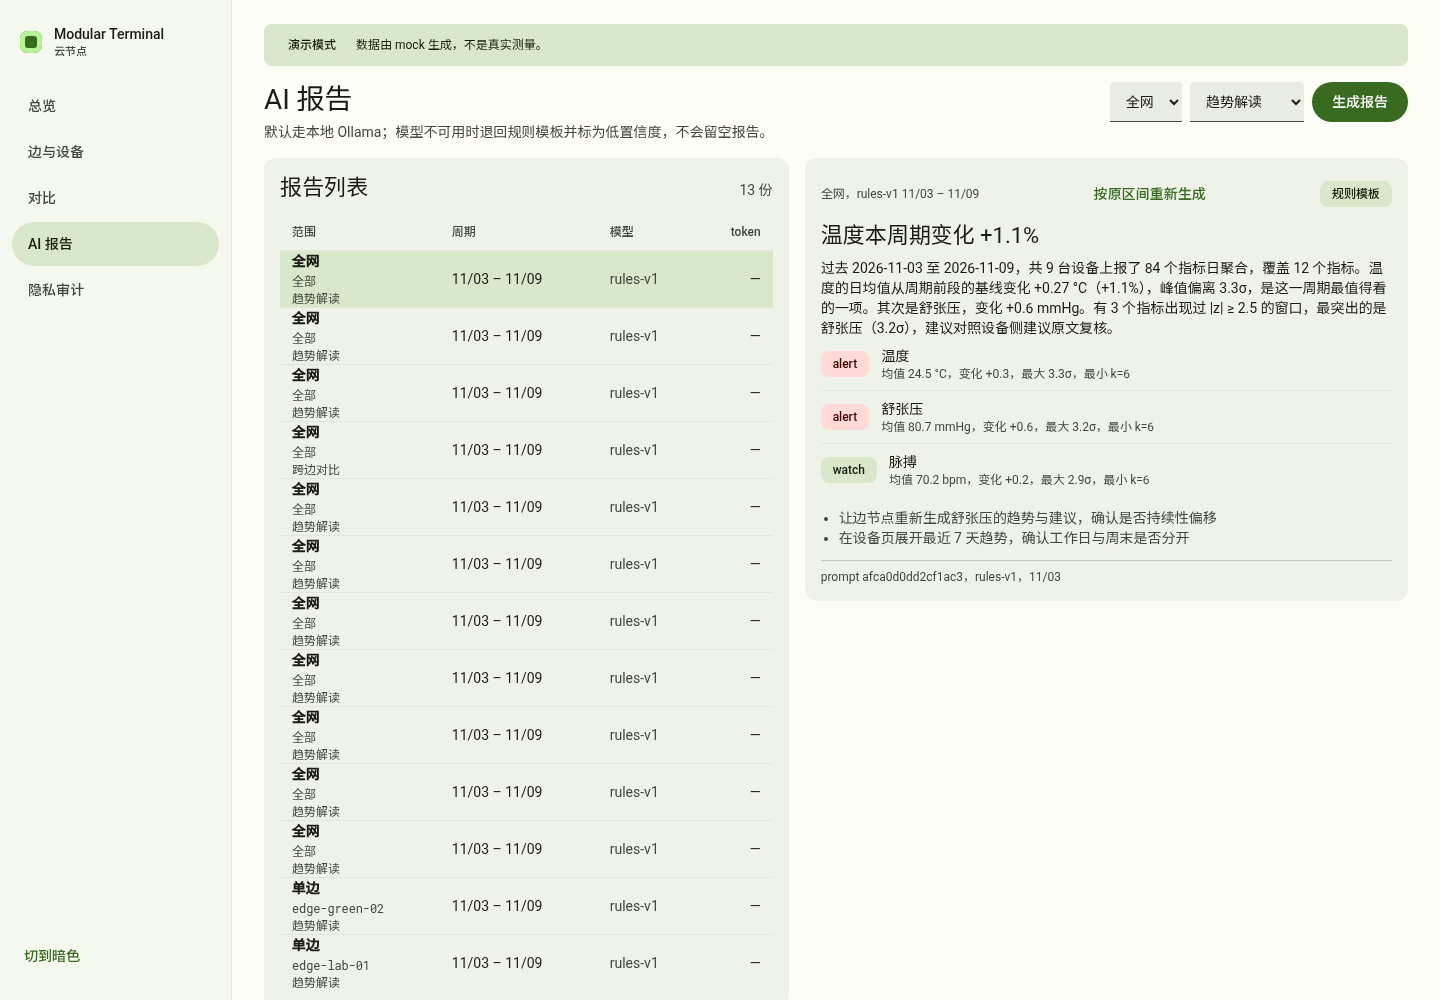
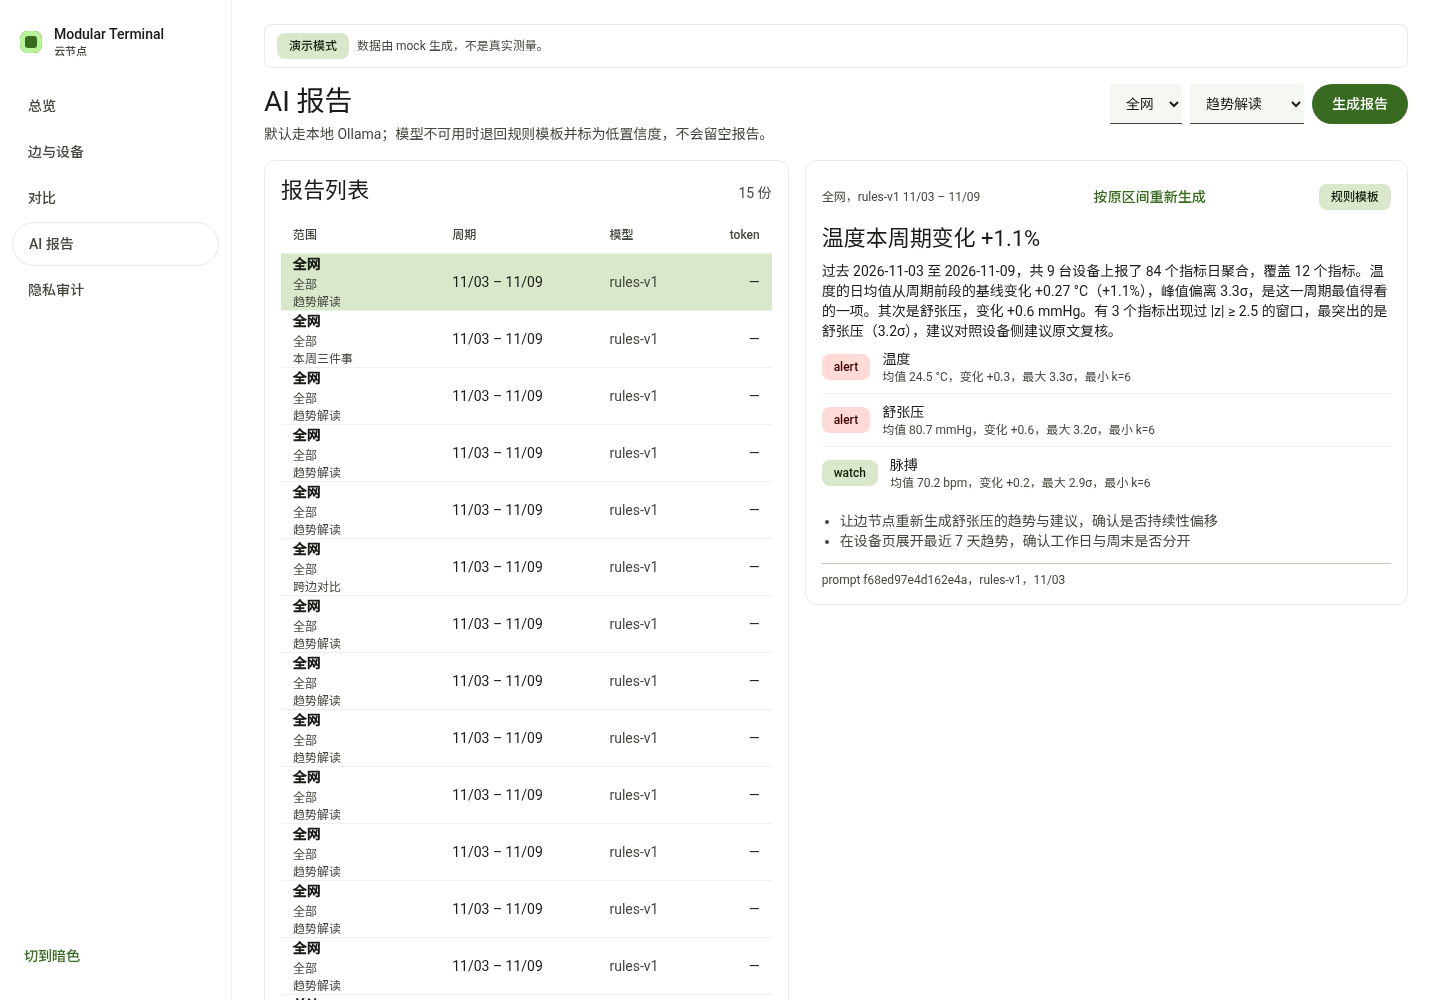
style(web): 亮色主题改为纯白底
- surface 系列 token 全改为白色，卡片白底 + 浅描边分层
- 演示横幅改白底，状态色留在 chip 上
- 星座图画布改白底：节点/连线改为深色，图例同步；
  主题切换时用 MutationObserver 重建颜色，暗色仍是亮色节点
- 截图按白底重新生成

验证：5 页冒烟通过；6 个视图 × 3 宽度 0 FAIL。

diff --git a/web/src/lib/constellation.js b/web/src/lib/constellation.js
@@ -58,12 +58,18 @@ void main() {
 const LINE_FS = `#version 300 es
 precision highp float;
 in float vAlpha;
+uniform vec3 uLine;
 out vec4 outColor;
-void main() { outColor = vec4(0.58, 0.98, 0.72, vAlpha); }`;
+void main() { outColor = vec4(uLine, vAlpha); }`;
 
-const TEAL = [0.52, 0.86, 0.62];
-const INK = [0.92, 0.96, 0.88];
-const GREY = [0.62, 0.68, 0.63];
+function palette() {
+  const dark = document.documentElement.dataset.theme === "dark";
+  return dark
+    ? { ink: [0.92, 0.96, 0.88], teal: [0.52, 0.86, 0.62],
+        grey: [0.62, 0.68, 0.63], line: [0.58, 0.98, 0.72] }
+    : { ink: [0.10, 0.12, 0.10], teal: [0.06, 0.42, 0.22],
+        grey: [0.52, 0.58, 0.52], line: [0.06, 0.42, 0.22] };
+}
 
 export function createConstellation(canvas) {
   const gl = canvas.getContext("webgl2", { antialias: true, alpha: true, premultipliedAlpha: false });
@@ -101,9 +107,14 @@ export function createConstellation(canvas) {
     view: gl.getUniformLocation(lineProg, "uView"),
     model: gl.getUniformLocation(lineProg, "uModel"),
     time: gl.getUniformLocation(lineProg, "uTime"),
+    color: gl.getUniformLocation(lineProg, "uLine"),
   };
 
-  function build({ edges = [], alerts = 0 }) {
+  let last = { edges: [], alerts: 0 };
+
+  function build({ edges = [], alerts = 0 } = {}) {
+    last = { edges, alerts };
+    const { ink, teal, grey } = palette();
     nodes.pos = []; nodes.color = []; nodes.size = [];
     links.pos = []; links.fade = [];
 
@@ -121,7 +132,7 @@ export function createConstellation(canvas) {
     };
 
     const center = [0, 0, 0];
-    push(center, INK, 30);
+    push(center, ink, 30);
 
     const n = Math.max(1, edges.length);
     edges.forEach((e, i) => {
@@ -129,7 +140,7 @@ export function createConstellation(canvas) {
       const r = n === 1 ? 0 : 1.15;
       // 三个边放在不同高度，投影后才有纵深，不会压成一条横线
       const hub = [Math.cos(ang) * r, Math.sin(ang) * 0.62, Math.sin(ang) * r * 0.85];
-      push(hub, e.online === false ? GREY : TEAL, 22);
+      push(hub, e.online === false ? grey : teal, 22);
       link(center, hub, 0.9);
 
       const k = Math.max(1, e.devices || 1);
@@ -140,7 +151,7 @@ export function createConstellation(canvas) {
           hub[1] + Math.sin(a2 * 1.3) * 0.34,
           hub[2] + Math.sin(a2) * 0.40,
         ];
-        push(sat, GREY, 14);
+        push(sat, grey, 14);
         link(hub, sat, 0.5);
       }
     });
@@ -206,6 +217,7 @@ export function createConstellation(canvas) {
     gl.uniformMatrix4fv(lloc.view, false, view);
     gl.uniformMatrix4fv(lloc.model, false, model);
     gl.uniform1f(lloc.time, t);
+    gl.uniform3f(lloc.color, ...palette().line);
     gl.drawArrays(gl.LINES, 0, links.fade.length);
 
     gl.useProgram(nodeProg);
@@ -226,9 +238,11 @@ export function createConstellation(canvas) {
   });
 
   build({});
+  const themeObs = new MutationObserver(() => build(last));
+  themeObs.observe(document.documentElement, { attributes: true, attributeFilter: ["data-theme"] });
   return {
     setData: build,
-    destroy() { stop(); ro.disconnect(); },
+    destroy() { stop(); themeObs.disconnect(); ro.disconnect(); },
   };
 }
 

diff --git a/web/src/styles/m3.css b/web/src/styles/m3.css
@@ -23,16 +23,18 @@
   --md-error-container: #ffdad6;
   --md-on-error-container: #410002;
 
-  --md-surface: #fbfdf6;
+  --md-surface: #ffffff;
+  --md-card-bg: #ffffff;
+  --md-card-border: #e8eae5;
   --md-on-surface: #1a1c18;
-  --md-surface-dim: #dcded4;
-  --md-surface-bright: #fbfdf6;
+  --md-surface-dim: #eef1ec;
+  --md-surface-bright: #ffffff;
   --md-surface-container-lowest: #ffffff;
-  --md-surface-container-low: #f5f8ef;
-  --md-surface-container: #eff2e9;
-  --md-surface-container-high: #e9ece2;
-  --md-surface-container-highest: #e3e6dc;
-  --md-surface-variant: #e1e4d5;
+  --md-surface-container-low: #ffffff;
+  --md-surface-container: #ffffff;
+  --md-surface-container-high: #f5f7f3;
+  --md-surface-container-highest: #eef1ec;
+  --md-surface-variant: #e9ece7;
   --md-on-surface-variant: #43483e;
   --md-outline: #74796d;
   --md-outline-variant: #c3c8bb;
@@ -118,6 +120,8 @@
 
   --md-surface: #11140e;
   --md-on-surface: #e3e3dc;
+  --md-card-bg: #1e201b;
+  --md-card-border: #2b2e28;
   --md-surface-dim: #11140e;
   --md-surface-bright: #373a33;
   --md-surface-container-lowest: #0c0f0a;
@@ -202,11 +206,10 @@ h3 {
 /* ---------------------------------------------------------------- 组件层 */
 
 .md-card {
-  /* M3 filled card：靠色调分层，不靠描边 */
-  background: var(--md-surface-container);
+  background: var(--md-card-bg);
   border-radius: var(--md-shape-md);
   padding: var(--space-4);
-  border: 0;
+  border: 1px solid var(--md-card-border);
 }
 
 .md-card--filled {

diff --git a/web/src/views/Overview.vue b/web/src/views/Overview.vue
@@ -147,8 +147,8 @@ const kpis = computed(() => {
 .topology {
   width: 100%; height: 340px; display: block;
   border-radius: var(--md-shape-sm);
-  /* 星座图是加色混合，配反色底 */
-  background: var(--md-inverse-surface);
+  background: var(--md-card-bg);
+  border: 1px solid var(--md-card-border);
 }
 .topo-legend {
   display: flex;
@@ -170,10 +170,10 @@ const kpis = computed(() => {
   border-radius: 50%;
   display: inline-block;
 }
-.lg--center { background: #ebf5e4; }
-.lg--edge { background: #85db9e; }
-.lg--sat { background: #9eada1; }
-.lg--off { background: #4a514c; }
+.lg--center { background: #1a1f18; }
+.lg--edge { background: #0f6b38; }
+.lg--sat { background: #858c85; }
+.lg--off { background: #b9c0b9; }
 .topo-note { margin-left: auto; }
 .trio {
   display: grid; grid-template-columns: minmax(0, 1.5fr) minmax(0, 1fr) minmax(0, 0.9fr);

diff --git a/web/src/App.vue b/web/src/App.vue
@@ -133,8 +133,9 @@ function toggleTheme() {
   background: color-mix(in srgb, var(--md-on-surface) 8%, transparent);
 }
 .nav-item--active {
-  background: var(--md-secondary-container);
-  color: var(--md-on-secondary-container);
+  background: var(--md-card-bg);
+  border: 1px solid var(--md-card-border);
+  color: var(--md-on-surface-variant);
 }
 
 .theme-toggle {
@@ -154,8 +155,9 @@ function toggleTheme() {
   margin-bottom: var(--space-4);
   padding: var(--space-2) var(--space-3);
   border-radius: var(--md-shape-sm);
-  background: var(--md-secondary-container);
-  color: var(--md-on-secondary-container);
+  background: var(--md-card-bg);
+  border: 1px solid var(--md-card-border);
+  color: var(--md-on-surface-variant);
   font: var(--md-body-small);
 }
 
